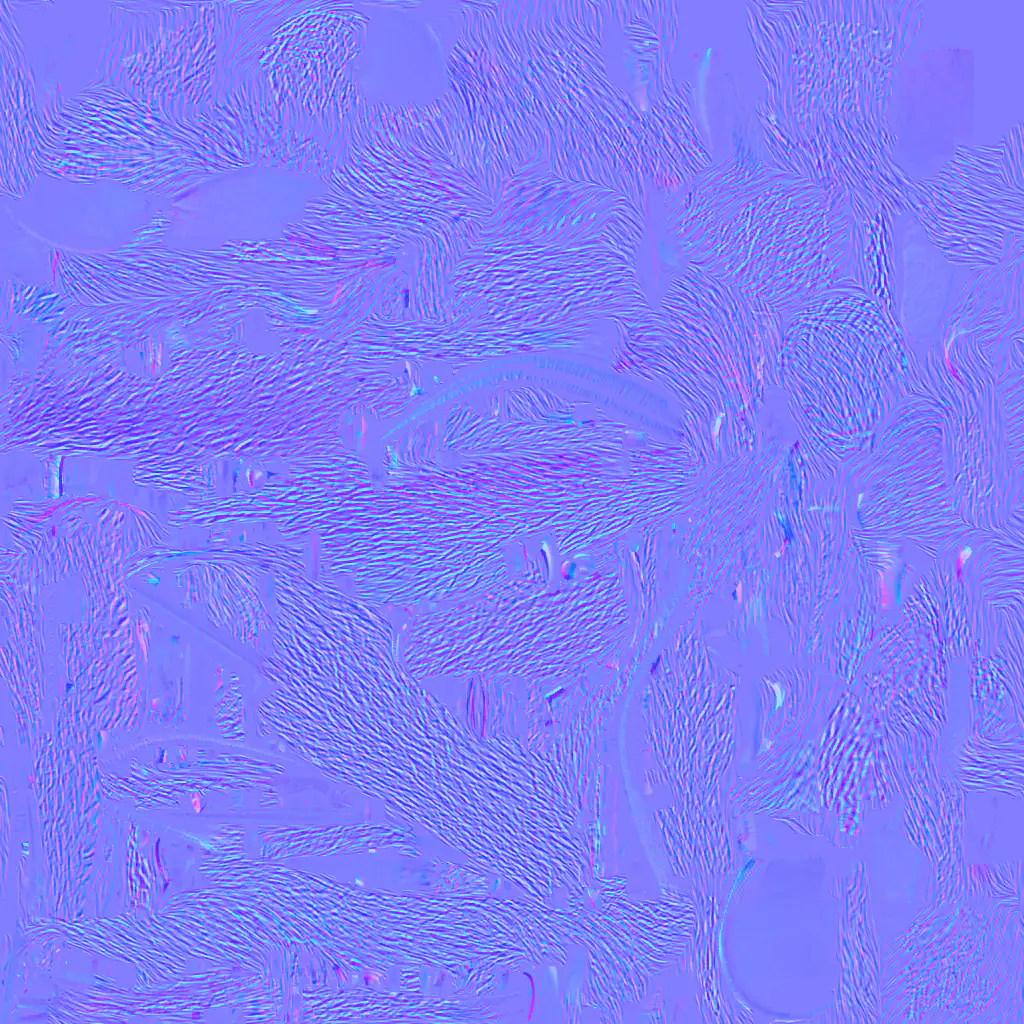
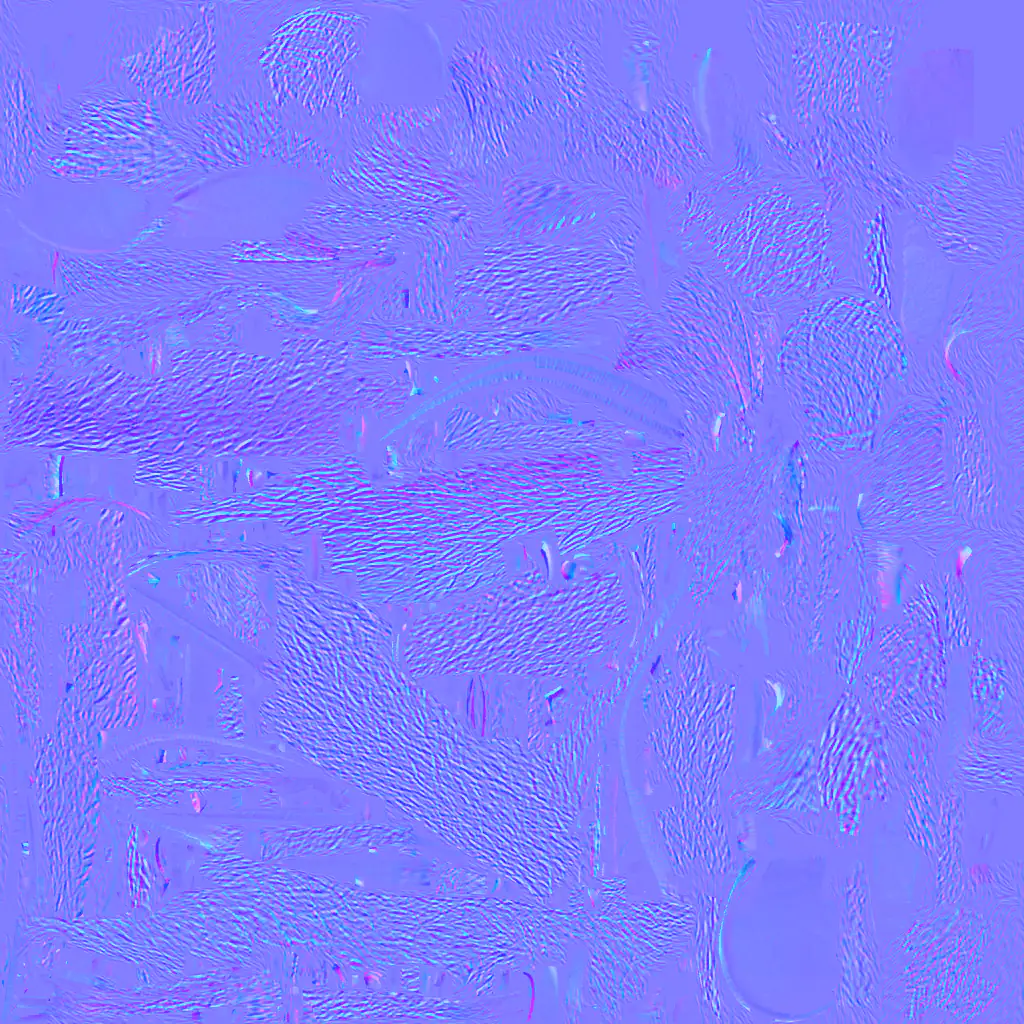
fix(tools): make the added fur strands of the mouse softer
The mouse maps take the soft strand values of the fox: tilt 0.03, luma
0.08, and half length 11 texels.

Changed region(s): [[0.0, 0.0, 1.0, 1.0], [0.7188, 0.8438, 0.75, 0.875], [0.1562, 0.6875, 0.1875, 0.7188]]

diff --git a/tools/mouse-maps.py b/tools/mouse-maps.py
@@ -32,7 +32,7 @@ NORMAL_LIMIT = 0.2
 NORMAL_GAIN = 4
 #: The texels of the eyeballs and this many texels around them take no strands.
 EYE_MARGIN = 4
-#: The fur strands that the maps add (`strands()`), with the first values of tools/fox-maps.py. The
+#: The fur strands that the maps add (`strands()`), with the soft values of tools/fox-maps.py. The
 #: source paints soft strokes in the fur, and the strands give the fur of the app the strands of
 #: the other Tripo bodies (a wavelength of 8 to 10 texels at 1024 pixels across the strands).
 STRANDS = {
@@ -43,15 +43,15 @@ STRANDS = {
     #: The sigma in texels at SIZE of the blur of the noise: the width of a strand.
     'width_sigma': 1.4,
     #: The half length in texels at SIZE of a strand, and the step of its samples.
-    'half_length': 22.0,
+    'half_length': 11.0,
     'step': 1.0,
     #: The sigma in texels at SIZE of the blur that the height of the strands loses (a high pass).
     'high_pass_sigma': 10.0,
     #: The root mean square of the x, y tilt of the strands in the normal map.
-    'tilt': 0.06,
+    'tilt': 0.03,
     #: The luma factor of the strands in the color map, for each standard deviation of the height:
     #: a strand crest is lighter, and a groove darker.
-    'luma': 0.16,
+    'luma': 0.08,
     #: The largest height of a strand, in standard deviations.
     'clip': 2.5,
 }

diff --git a/assets/models/mouse/README.md b/assets/models/mouse/README.md
@@ -207,11 +207,12 @@ finds no row. The pink of the paws is the pink of the source: the mean color of 
 RGB (231, 155, 135) in the source map and (229, 156, 136) in `mouse-color.webp`.
 
 **Maps** (`tools/mouse-maps.py`). The tool scales the color map of the source to 2048 pixels
-(Lanczos), adds the fur strands of `tools/fox-maps.py` (`strands()`) to the fur, and writes WebP
-quality 60, method 6 (Pillow 13.0.0). The pink skin (Oklab C from 0.06, h near 35 degrees: 24 % of
-the texels) and the eyeballs take no strands. It writes `mouse-normal.webp` from the normal map of
-the FBX with the slope of the same strands: each x, y tilt limited to 0.2 (4.27 % of the texels), a
-box scale to 1024 pixels, the tilts times 4 in red and green, 255 in blue, and `cwebp -q 60
+(Lanczos), adds the soft fur strands of `tools/fox-maps.py` (`strands()`, tilt 0.03, luma 0.08, half
+length 11 texels) to the fur, and writes WebP quality 60, method 6 (Pillow 13.0.0). The pink skin
+(Oklab C from 0.06, h near 35 degrees: 24 % of the texels) and the eyeballs take no strands. It
+writes `mouse-normal.webp` from the normal map of the FBX with the slope of the same strands: each
+x, y tilt limited to 0.2 (4.27 % of the texels), a box scale to 1024 pixels, the tilts times 4 in
+red and green, 255 in blue, and `cwebp -q 60
 -sharp_yuv -m 6` (libwebp 1.5.0). The eye mask comes from the rig file, so run the tool after the
 chain.
 
@@ -224,5 +225,5 @@ The export of the file and the maps. License of each file: CC BY-NC 4.0, as the 
 |---|---|---|
[6 lines of base64/hex data omitted]
